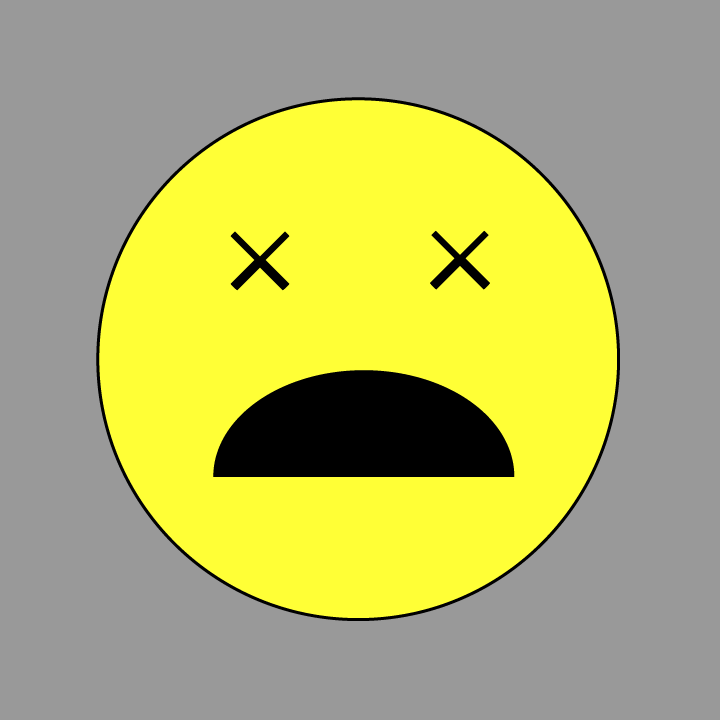
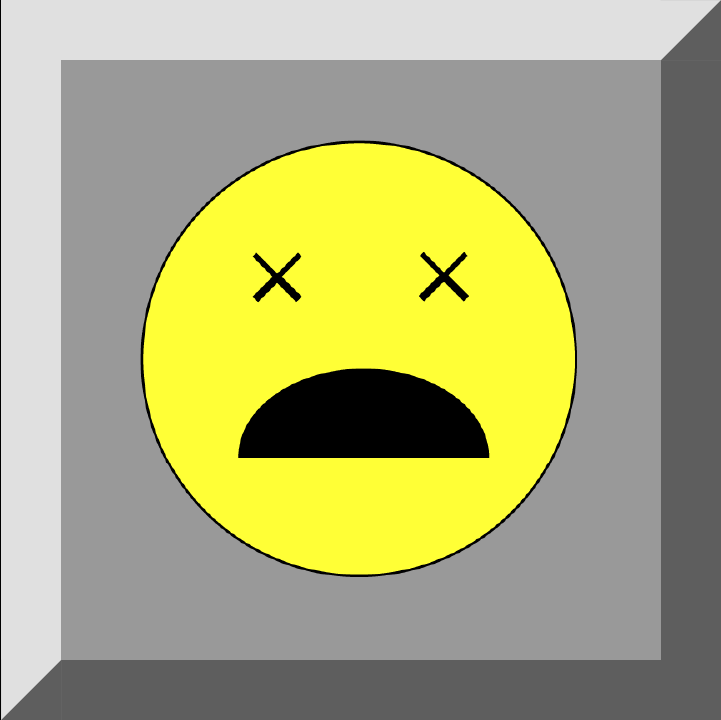
start over, add JFrame and JButton

diff --git a/Main.java b/Main.java
@@ -1,43 +1,18 @@
-/*
- *  Main.java
- *  Main method, responsible for window properties & operations 
- *  (e.g. title, resize, visibility, closing).
- */
-
 import java.util.*;
 import java.io.*;
 import javax.swing.*;
-import javax.swing.event.*;
 import java.awt.*;
-import java.awt.event.*;
 
-public class Main extends JFrame {
-	
-	private Main() {
-		// call contents of window into the main framework/window
-		this.add(new Window());
-		this.setTitle("Minesweeper Game");
-		JFrame.setDefaultLookAndFeelDecorated(true);
-		
-		// test text
-		// JLabel label = new JLabel("Hello world!!!");
-		// label.setFont(label.getFont().deriveFont(24.0f));
-		// this.add(label);
-		
-		// exit the application by closing with the 'X' button or System.exit
-		this.setDefaultCloseOperation(JFrame.EXIT_ON_CLOSE);
-		
-		// unable to resize window
-		this.setResizable(true);
-		
-		// sizes the contents appropriate to the size of the window
-		this.pack();
-		
-		// set to visible
-		this.setVisible(true);
-	}
-	
-	public static void main(String[] args) {
-		new Main();
-	}
+public class Main {
+    public static void main(String[] args) {
+        // create frame
+        JFrame frame = new JFrame("Minesweeper");
+        frame.setResizable(false);
+        frame.setVisible(true);
+        frame.setDefaultCloseOperation(JFrame.EXIT_ON_CLOSE);
+
+        // create button
+        JButton button = new JButton("test button");
+        frame.add(button);
+    }
 }

diff --git a/README.md b/README.md
@@ -1,12 +1,12 @@
 # minesweeper-game: A Java Minesweeper Project
 Minesweeper game using Java and JavaX SWING, also to incorporate tools like MySQL, socket programming, Adobe Illustrator, etc.
 Edited and tested using Visual Studio Code. 
-Created in May 2021, personal project.
+Created in May 2021, personal project. 
 
-# Project Synposis:
+## Project Synposis:
 * Minesweeper is a puzzle game, where the goal is to clear all the tiles on the grid and to flag whichever tiles supposedly contain the bombs. 
 
-# General Gameplay:
+## General Gameplay:
 * For this project, each player will have the option of picking any of the following difficulties: Easy, Intermediate, Challenging, Expert, and Crazy. These are different from conventional settings of Minesweeper used in other platforms; for instance, what is typically an 'Expert' game is considered 'Challenging' here. 
 
 * The number of mines hidden in the grid are defined by the user's difficulty. There are an equal number of flags as there are mines. Right-clicking on each tile will place a flag, indicating that there may be a bomb present. Left-clicking on the grid will clear out the selected tile, under the condition that the player may lose when clicking on an undetected bomb. 
@@ -18,17 +18,17 @@ Created in May 2021, personal project.
 
 * When a tile is clicked, assuming that the tile in question is safe, the surrounding area is cleared. There will be numbers that signify the number of bombs detected within its vicinity. It is the player's job to make sure that they can figure out where the bomb is. The outcome is solved either by narrowing down which tiles have been reclaimed within a certain perimeter of the detected bomb, and thereby pinpointing the location of the bomb, or making a guess (this is unavoidable in certain scenarios). 
 
-# Additional Gameplay (Multiplayer):
+## Additional Gameplay (Multiplayer):
 * TBA, come back for more info.
 
-# Goals and Vision of Project:
+## Goals and Vision of Project:
 * The goal is to create a Minesweeper that is reminiscent of the original single-player game, while incorporating new libraries and
 types of programming to engage multiple users in multiplayer mode games. The final product will, hopefully, tabulate all scores using a database, and incorporate socket programming to encourage clients, or players in this case, to play minigames together. 
 
-# Timeline of Project:
-* More information on updates and notes in RUNS.md
+## Timeline of Project:
+* More information on updates and notes in UPDATES.md
 
-# Source Code, Tutorials, Documentation Used, and Credits:
+## Source Code, Tutorials, Documentation Used, and Credits:
 * Inspired by a similar small project I made back in early January for a Java Snake game, using JavaX SWING. Link: https://www.youtube.com/watch?v=bI6e6qjJ8JQ (sadly, it was never truly finished). 
 
 * All images were created by me via Adobe Illustrator. Vector images include facial expressions, flags, mines, board numbers (1-7), analog numbers (0-9), and tile (both undiscovered and cleared). 

diff --git a/UPDATES.md b/UPDATES.md
@@ -1,0 +1,1 @@
+# UPDATES
